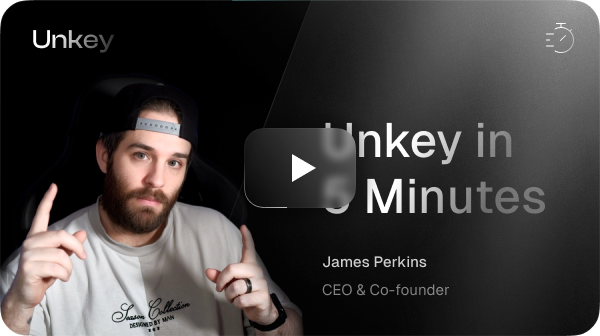
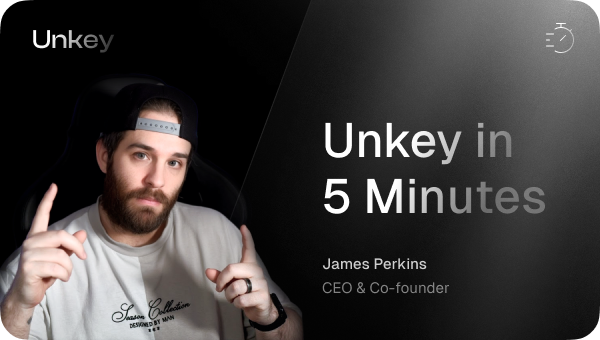
add new hero image

diff --git a/apps/landing/components/youtube-embed.tsx b/apps/landing/components/youtube-embed.tsx
@@ -14,7 +14,7 @@ export function YoutubeEmbed() {
         onClick={() => setToggler(!toggler)}
       >
         <BorderBeam size={400} colorFrom="#72FFF9" />
-        <img src="/images/hero3.png" alt="Youtube" />
+        <img src="/images/hero.png" alt="Youtube" />
         <div className="absolute top-[calc(50%-80px/2)] left-[calc(50%-112px/2)] bg-[#ffffff/30] h-[80px] w-[112px] bg-yt-button-gradient hover:bg-[#111111] transition-all rounded-[20px] flex items-center justify-center">
           <BorderBeam />
           <svg
